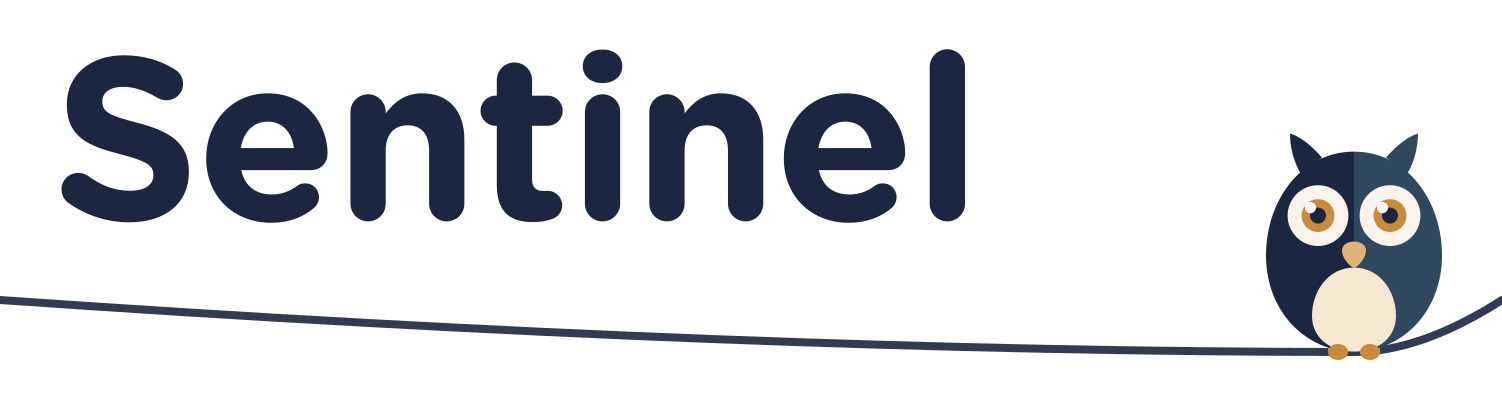
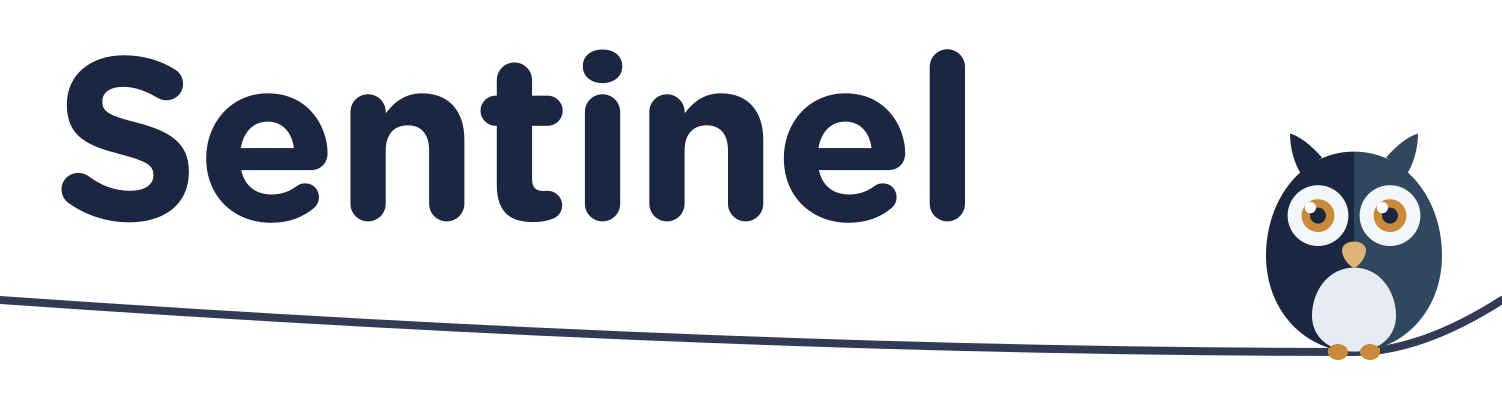
feat(brand): regenerate the lockups and social card in off-white
Adds docs/brand/build_social_card.py. The card was previously produced by hand,
which is why a palette change would otherwise have left it stale while every
other asset moved.

Changed region(s): [[0.8575, 0.6667, 0.9494, 0.8788]]

diff --git a/docs/brand/build_social_card.py b/docs/brand/build_social_card.py
@@ -1,0 +1,36 @@
+# -*- coding: utf-8 -*-
+"""Build the repository's social preview card from the wide light lockup.
+
+    cd docs/brand && python3 build_social_card.py
+
+GitHub, Slack, and Teams render this when the repository or the documentation
+site is linked. It is the light lockup at full card width on a white ground,
+letterboxed to the 2:1 frame those services expect.
+
+Needs `rsvg-convert` and `magick` on PATH, like the other builders here. This
+exists because the card used to be produced by hand, which meant a palette
+change silently left it stale.
+"""
+import os
+import subprocess
+
+HERE = os.path.dirname(os.path.abspath(__file__))
+OUT = os.path.join(HERE, "header")
+SRC = os.path.join(OUT, "sentinel-header-light.svg")
+DST = os.path.join(OUT, "sentinel-social-card.png")
+
+W, H, GROUND = 1280, 640, "#ffffff"
+
+
+def run(*a):
+    subprocess.run(a, check=True)
+
+
+strip = os.path.join(OUT, ".social-strip.png")
+# The lockup is transparent; flatten onto the ground before extending so the
+# letterbox and the artwork share exactly one white.
+run("rsvg-convert", "-w", str(W), "-b", GROUND, SRC, "-o", strip)
+run("magick", strip, "-background", GROUND, "-gravity", "center",
+    "-extent", f"{W}x{H}", DST)
+os.remove(strip)
+print(f"built {os.path.relpath(DST, HERE)}  {W}x{H}")
